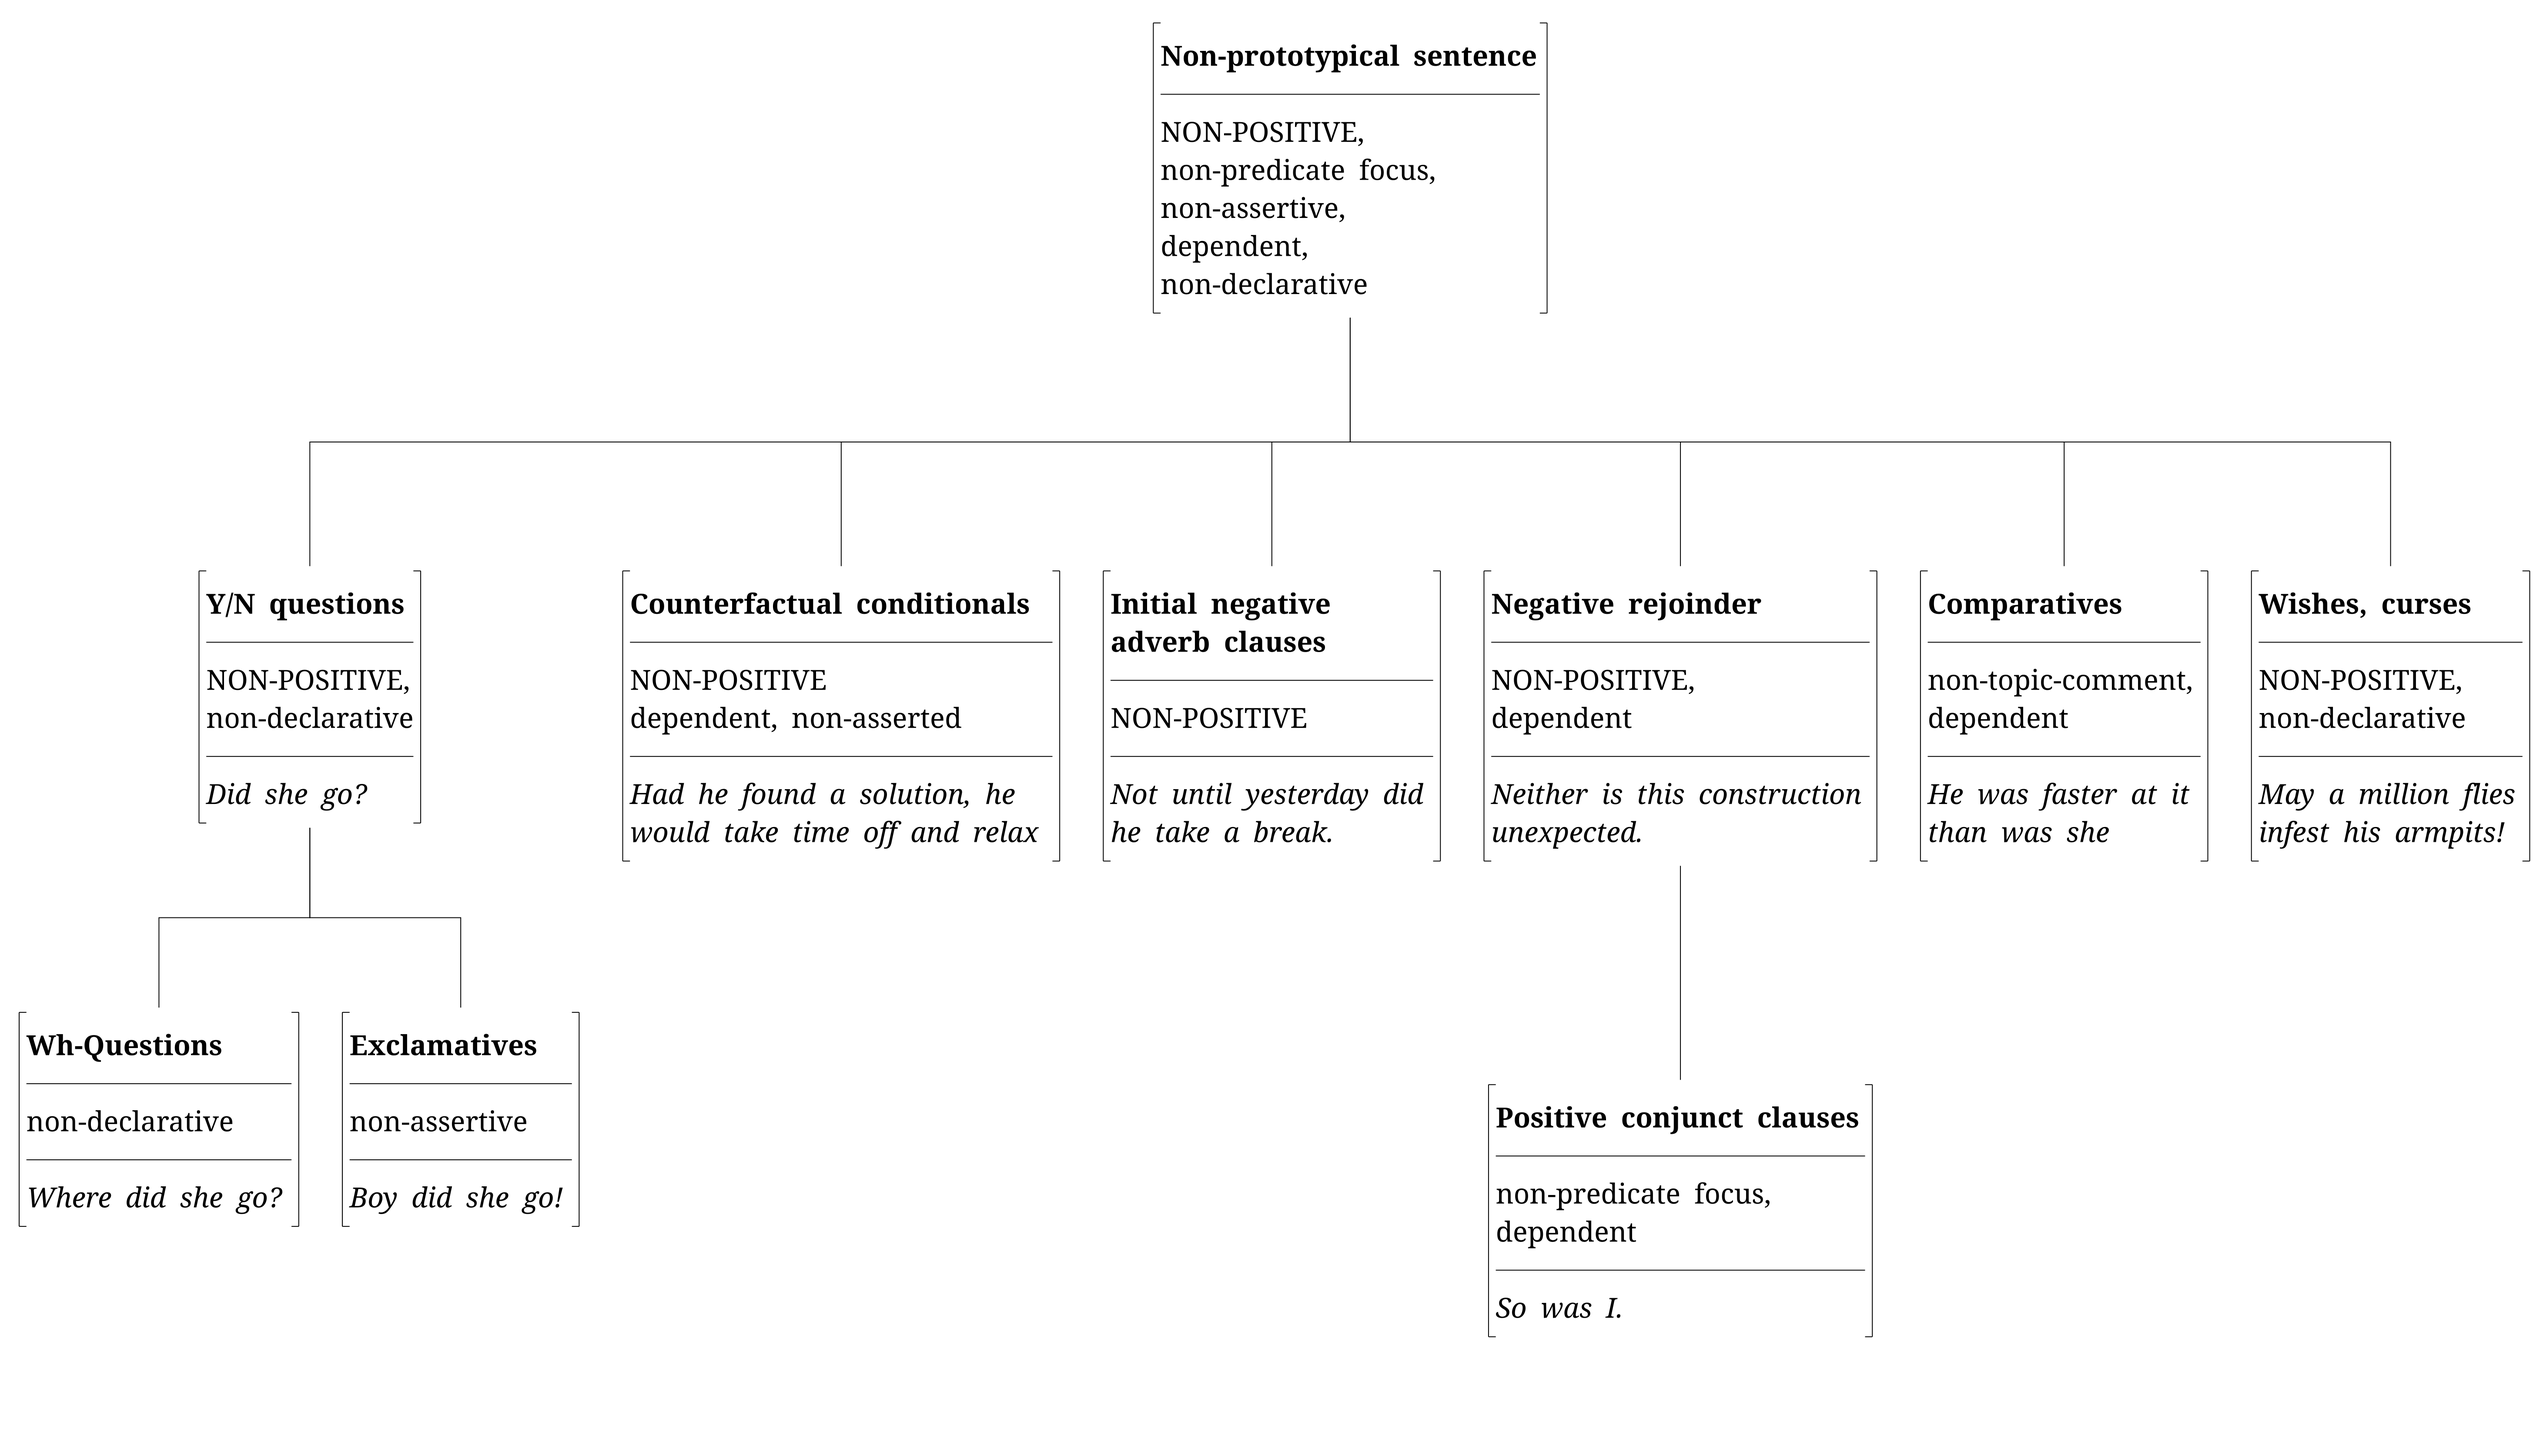
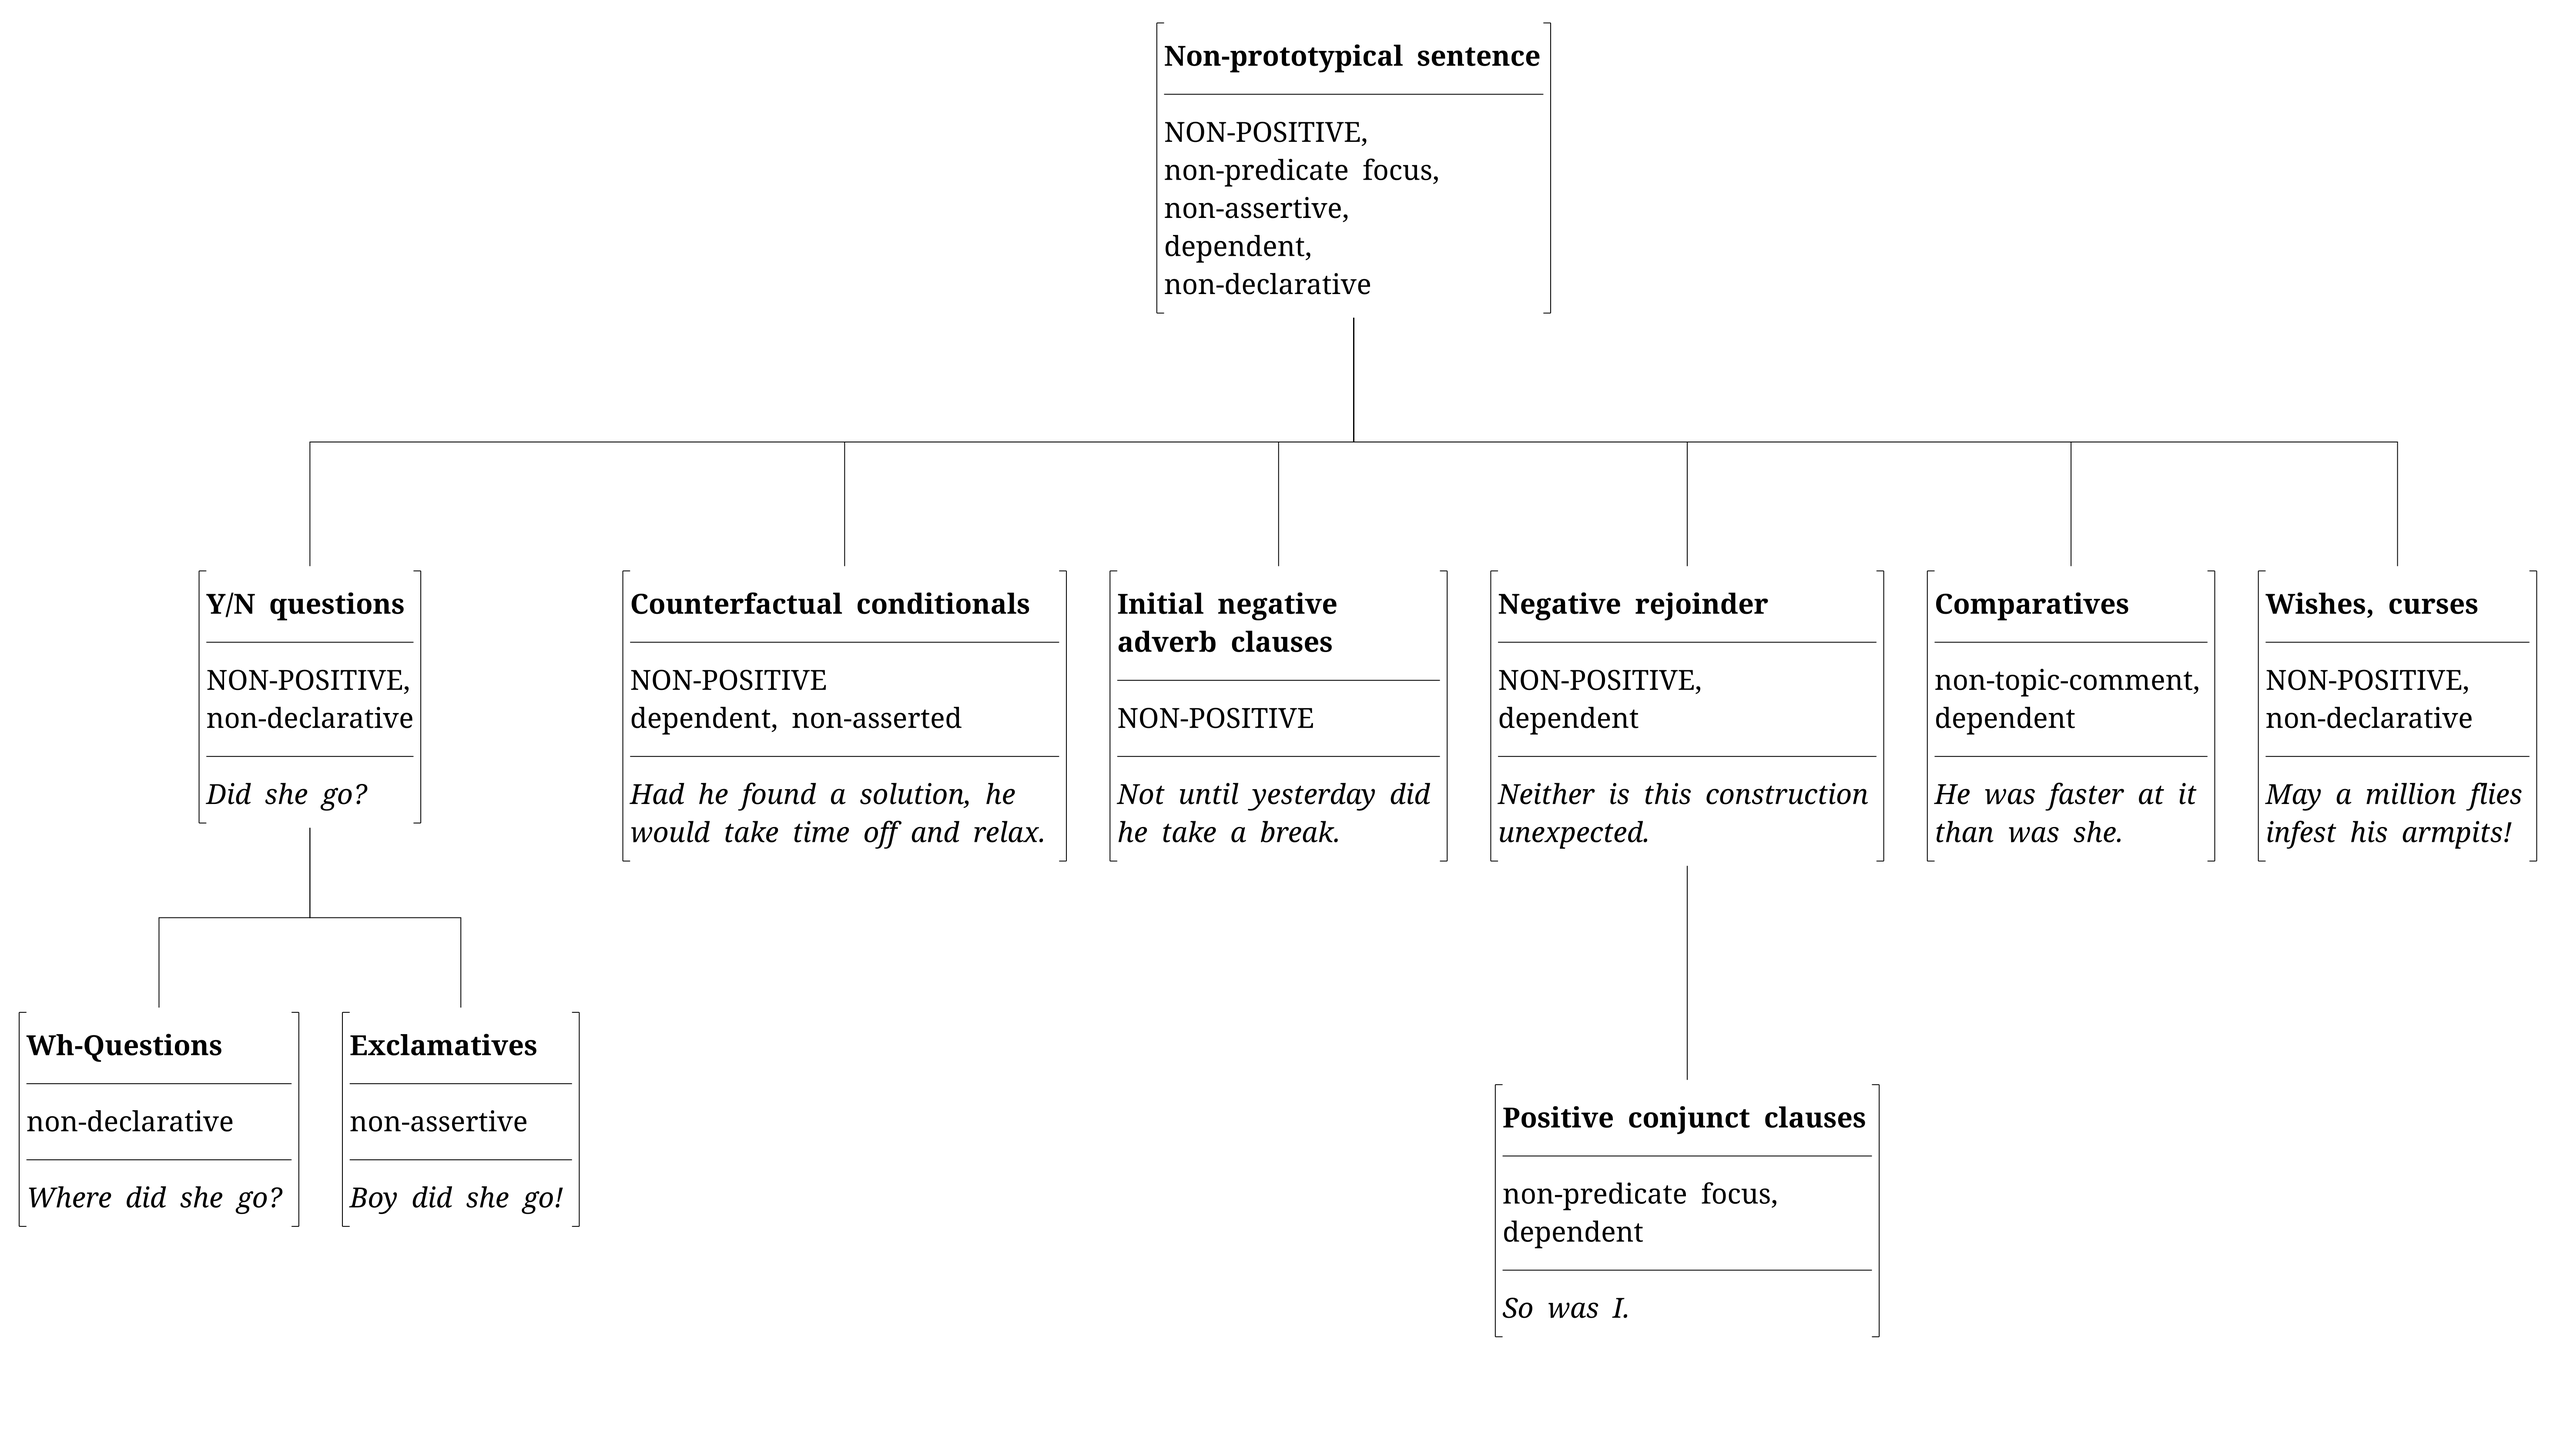
Example 025 added

diff --git a/docs/_includes/escape_char_table.html b/docs/_includes/escape_char_table.html
@@ -2,7 +2,7 @@
   <thead>
     <tr>
       <th>Input</th>
-      <th>Apearance</th>
+      <th>Appearance</th>
     </tr>
   </thead>
   <tbody>

diff --git a/docs/_examples/025.md b/docs/_examples/025.md
@@ -42,7 +42,7 @@ reference: "Goldberg 2006: 177"
     dependent,<>non\-asserted\
     ---\
     *Had<>he<>found<>a<>solution,<>he*\
-    *would<>take<>time<>off<>and<>relax*
+    *would<>take<>time<>off<>and<>relax.*
   ]
   [#**Initial<>negative**\
     **adverb<>clauses**\
@@ -73,7 +73,7 @@ reference: "Goldberg 2006: 177"
     dependent\
     ---\
     *He<>was<>faster<>at<>it*\
-    *than<>was<>she*
+    *than<>was<>she.*
   ]
   [#**Wishes,<>curses**\
     ---\
